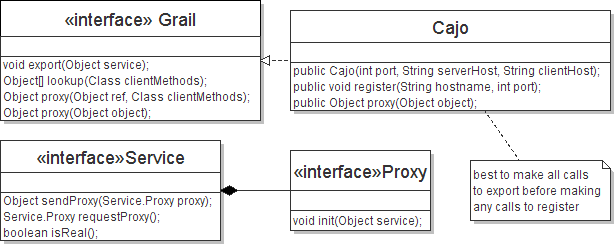
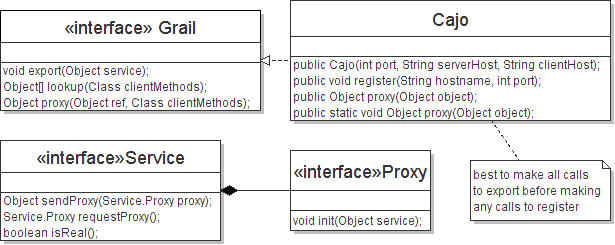
the client proxy method really should be static, which means it cannot be in the Grail interface

diff --git a/javanet/gnu/cajo/Cajo.java b/javanet/gnu/cajo/Cajo.java
@@ -6,8 +6,9 @@ import gnu.cajo.utils.Multicast;
 import gnu.cajo.utils.ItemServer;
 import gnu.cajo.utils.extra.TransparentItemProxy;
 import java.lang.reflect.Method;
-import java.util.Arrays;
 import java.io.IOException;
+import java.util.Arrays;
+import java.util.HashSet;
 import java.util.Vector;
 import java.util.ArrayList;
 import java.rmi.RemoteException;
@@ -305,8 +306,8 @@ public final class Cajo implements Grail {
     * @return A proxy object, implementing all of the interfaces of the
     * wrapped object argument, it will even work in the local context
     */
-   public Object proxy(Object object) {
-      ArrayList interfaces = new ArrayList();
+   public static Object proxy(Object object) {
+      HashSet interfaces = new HashSet();
       for (Class c = object.getClass(); c != null; c = c.getSuperclass())
          interfaces.addAll(Arrays.asList(c.getInterfaces()));
       return TransparentItemProxy.getItem(object,

diff --git a/javanet/gnu/cajo/Grail.java b/javanet/gnu/cajo/Grail.java
@@ -88,17 +88,4 @@ public interface Grail {
     * local method invocations will be transparently passed onto the remote
     */
    Object proxy(Object reference, Class methodSetInterface);
-   /**
-    * This method is used to allow clients to pass references to its own
-    * local objects, to other JVMs. Normally all arguments are passed by
-    * value, meaning copies are sent to the remote JVM. Sometimes however,
-    * what is needed is for all users to have a reference to the same object
-    * instance, on which to perform operations. This is necessary in the case
-    * for example, where an argument object cannot be made serialisable.
-    * @param object The local client object for which a pass-by-reference is
-    * sought
-    * @return A proxy object, implementing all of the interfaces of the
-    * wrapped object argument, it must even work in the local context
-    */
-   public Object proxy(Object object);
 }
